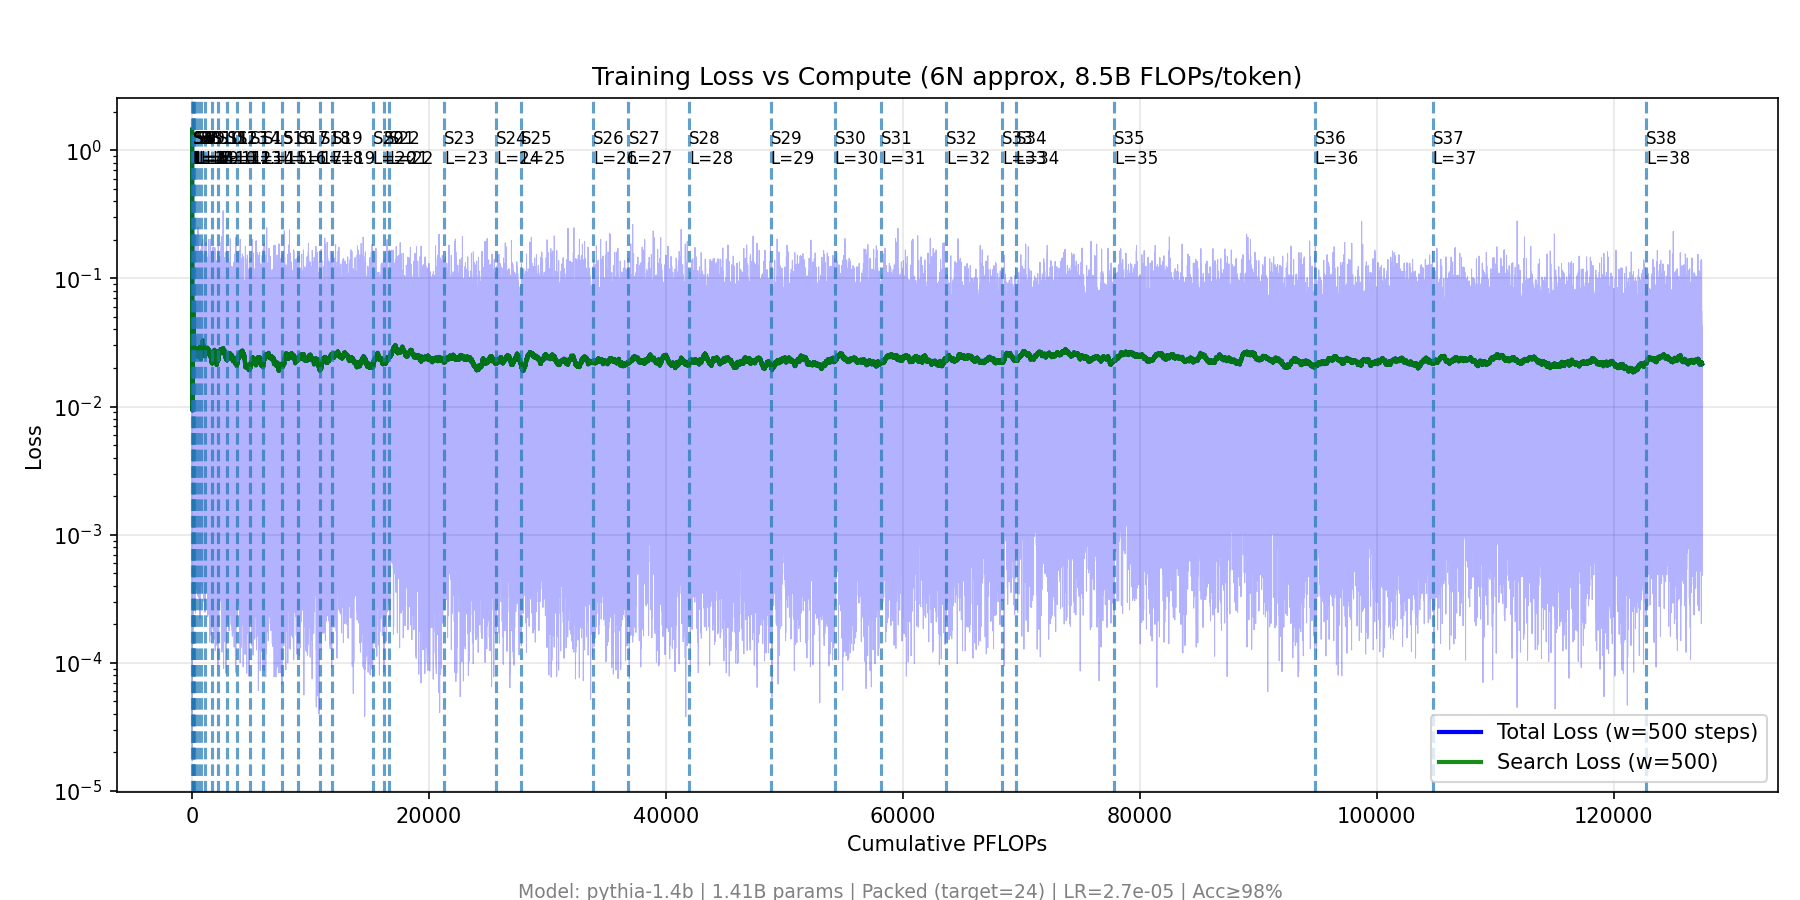
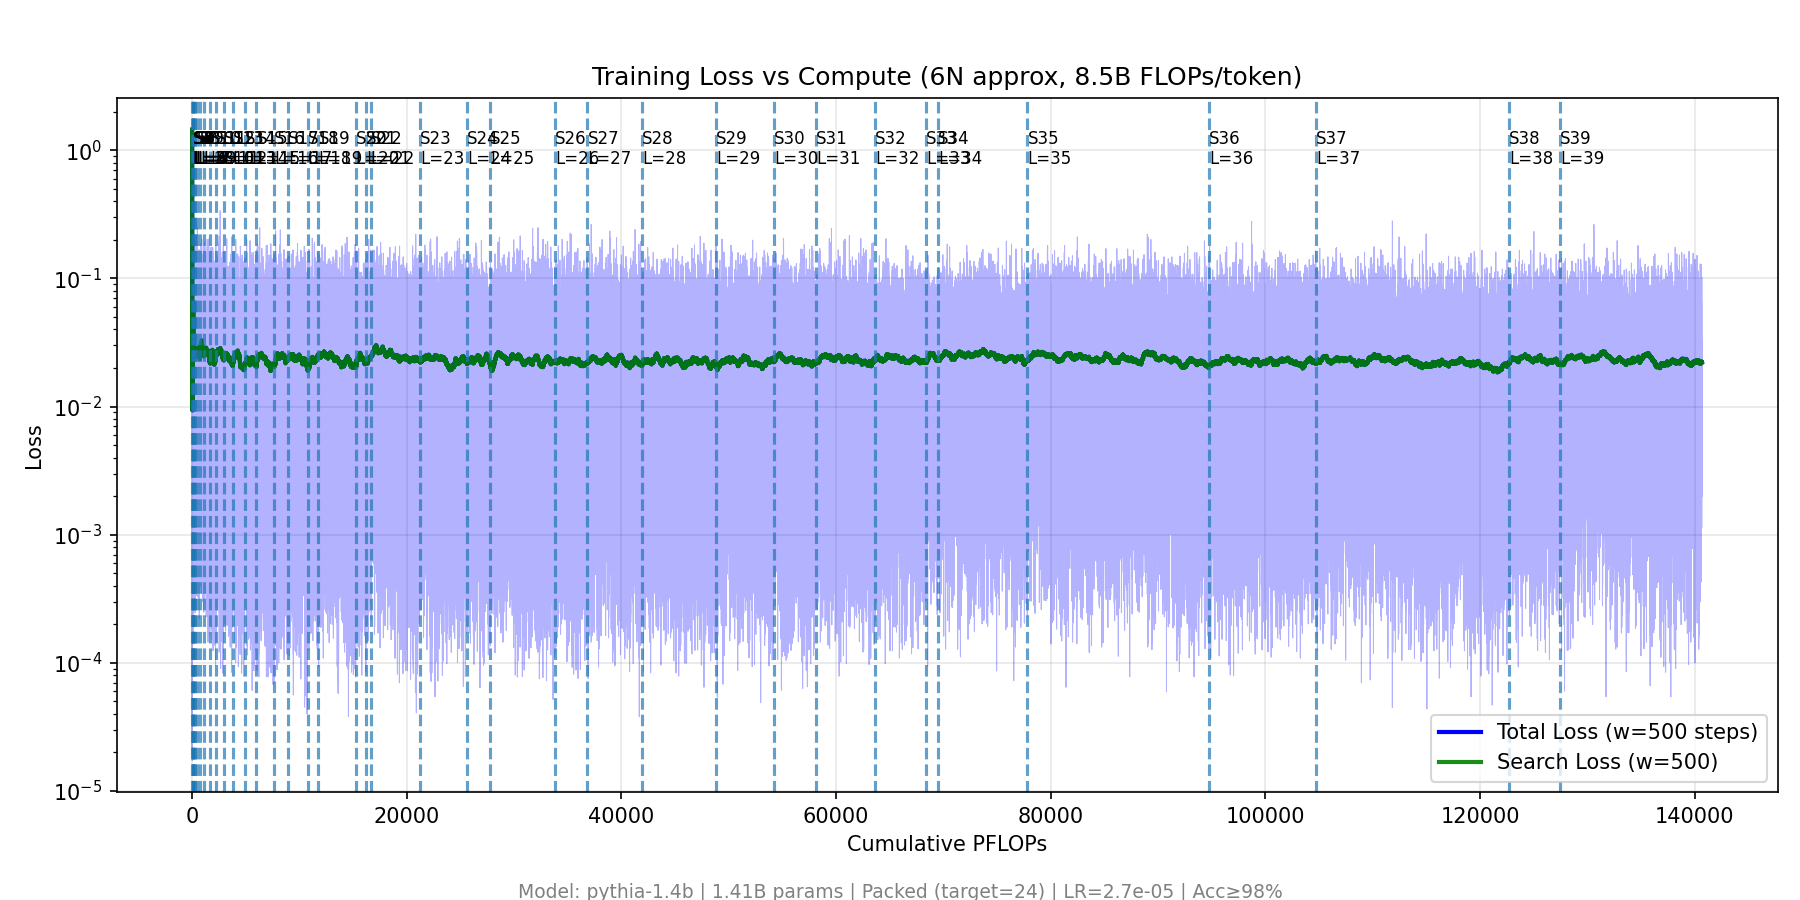
Update Experiment 2 progress (2026-10-19 02:37 UTC)

diff --git a/PROGRESS.md b/PROGRESS.md
@@ -3,7 +3,7 @@
 **Base commit:** `da7b19c` (`main`, plus `--revision` support in `nl/tuning_nl.py`)
 **Branch:** `jackierwzhang/exp2-pythia14b-revisions`
 **VM Instances:** `nl-exp2-spot-step1000`, `nl-exp2-spot-step10000`, `nl-exp2-spot-step100000`, `nl-exp2-spot-step143000` (4x `a3-highgpu-4g` Spot, 4x H100-80GB each)
-**Last updated:** 2026-10-19 02:20 UTC
+**Last updated:** 2026-10-19 02:37 UTC
 
 ## Shared Configuration
 
@@ -29,7 +29,7 @@
 | `step1000` | `step1000` | ~2.1B | `exp2_pythia14b_step1000` | Spot 4x H100 (us-east4-a) | Completed (PFLOPs cap) | 673000 | 28/96 (`L=28`) | 94.62% | 96.25% | 0.0295 | 500,310.1 | 1238.0 | 121.84h | 0.0h (Done) |
 | `step10000` | `step10000` | ~21.0B | `exp2_pythia14b_step10000` | Spot 4x H100 (us-east4-a) | Completed (PFLOPs cap) | 615500 | 28/96 (`L=28`) | 94.88% | 97.75% | 0.0298 | 500,428.3 | 1240.3 | 120.07h | 0.0h (Done) |
 | `step100000` | `step100000` | ~209.7B | `exp2_pythia14b_step100000` | Spot 4x H100 (us-east4-b) | Completed (PFLOPs cap) | 347000 | 58/96 (`L=58`) | 94.88% | 96.88% | 0.0260 | 500,114.3 | 1290.1 | 101.85h | 0.0h (Done) |
-| `step143000` | `step143000` | ~299.9B | `exp2_pythia14b_step143000` | Spot 4x H100 (us-east5-a) | Running | 142850 | 39/96 (`L=39`) | 98.00% | 98.75% | 0.0210 | 140,620.4 | 1300.7 | 28.59h | ~41.8h (stg rate, 40.6% L) / 71.2h (500k cap @ 5,048 PF/h) |
+| `step143000` | `step143000` | ~299.9B | `exp2_pythia14b_step143000` | Spot 4x H100 (us-east5-a) | Running | 143890 | 40/96 (`L=40`) | 96.50% | 98.00% | 0.0185 | 142,012.1 | 1303.0 | 28.87h | ~40.5h (stg rate, 41.7% L) / 70.8h (500k cap @ 5,057 PF/h) |
 
 ## Stage Evaluation Summary (`stage_eval_history.json`, every 8 stages)
 
